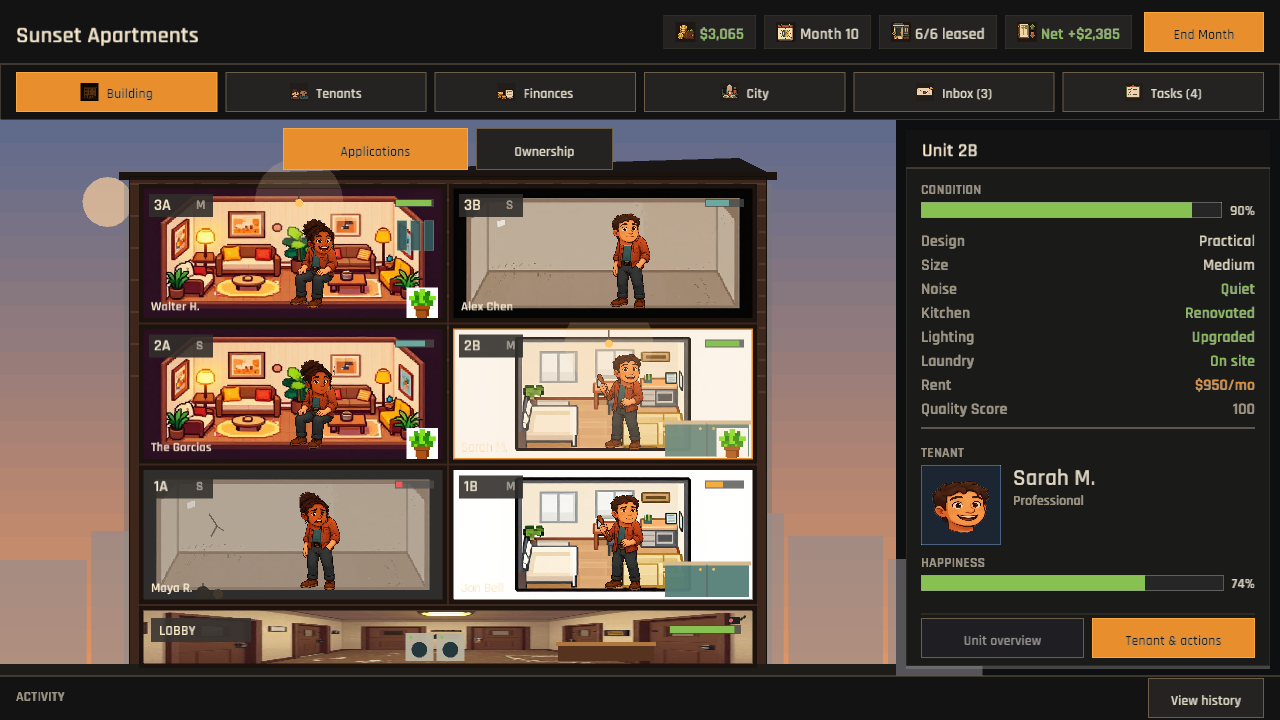
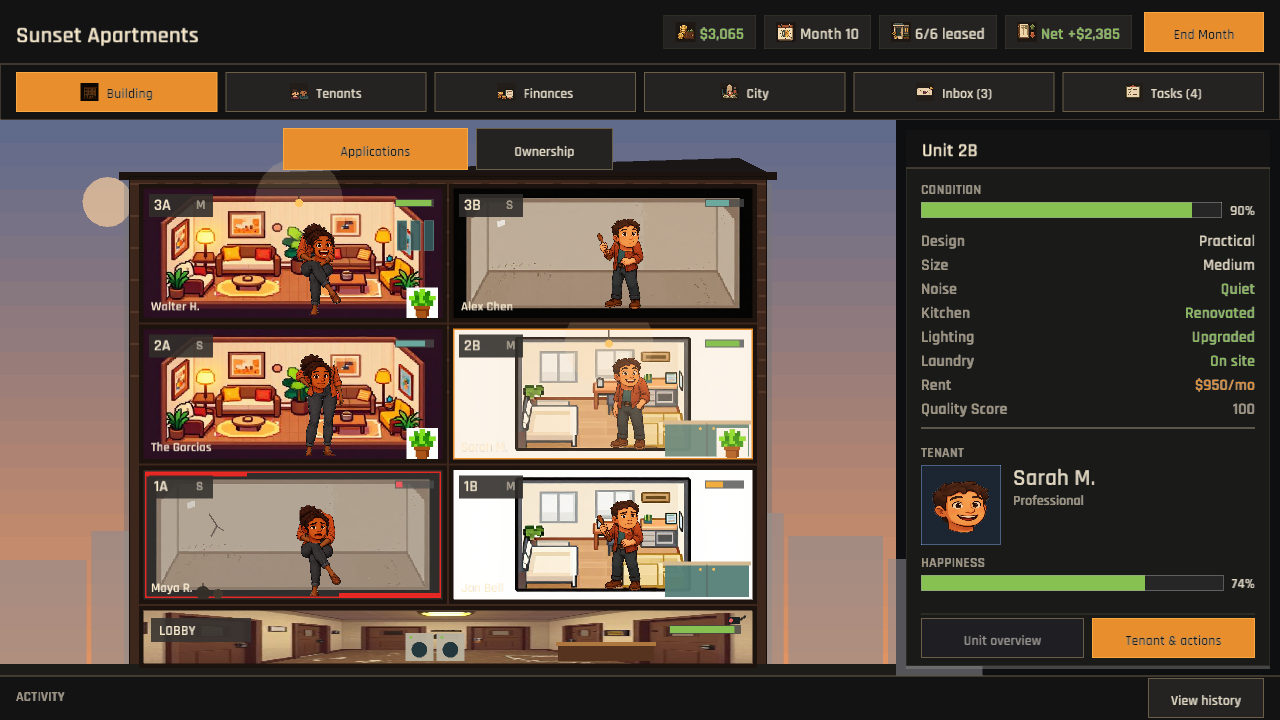
The residents settle their heads into every pose (UI, resident art alignment)
The refreshed resident screenshots exposed a pose-dependent gap between the face sprites and the neck openings. Give standing, sitting, and cooking their own vertical head anchors, cover the ordering with a focused test, and replace the unit showcase verification capture with the corrected alignment.

Validation: cargo test --all-targets; scripts/verify_ui_captures.ps1; publish.ps1

diff --git a/src/ui/resident_sprite.rs b/src/ui/resident_sprite.rs
@@ -61,6 +61,14 @@ fn emotion_column(happiness: i32) -> f32 {
     }
 }
 
+fn head_drop_for_pose(pose: ResidentPose) -> f32 {
+    match pose {
+        ResidentPose::Standing => 0.04,
+        ResidentPose::Sitting => 0.15,
+        ResidentPose::Cooking => 0.06,
+    }
+}
+
 fn face_texture<'a>(tenant: &Tenant, assets: &'a AssetManager) -> Option<&'a Texture2D> {
     let face_id = if tenant.id % 2 == 0 {
         "tenant_face_emotions"
@@ -160,13 +168,8 @@ pub(super) fn draw_resident(
 
     let head_h = sprite_h * 0.48;
     let head_w = head_h * 0.83;
-    let seated_drop = if pose == ResidentPose::Sitting {
-        sprite_h * 0.10
-    } else {
-        0.0
-    };
     let head_x = body_x + (body_w - head_w) / 2.0;
-    let head_y = body_y - head_h * 0.42 + seated_drop;
+    let head_y = body_y - head_h * 0.42 + sprite_h * head_drop_for_pose(pose);
     draw_texture_ex(
         faces,
         head_x,

diff --git a/src/ui/resident_sprite/tests.rs b/src/ui/resident_sprite/tests.rs
@@ -40,3 +40,10 @@ fn happiness_maps_across_all_five_face_columns() {
     assert_eq!(emotion_column(30), 3.0);
     assert_eq!(emotion_column(5), 4.0);
 }
+
+#[test]
+fn head_anchor_accounts_for_each_pose() {
+    assert!(head_drop_for_pose(ResidentPose::Standing) > 0.0);
+    assert!(head_drop_for_pose(ResidentPose::Sitting) > head_drop_for_pose(ResidentPose::Cooking));
+    assert!(head_drop_for_pose(ResidentPose::Cooking) > head_drop_for_pose(ResidentPose::Standing));
+}
